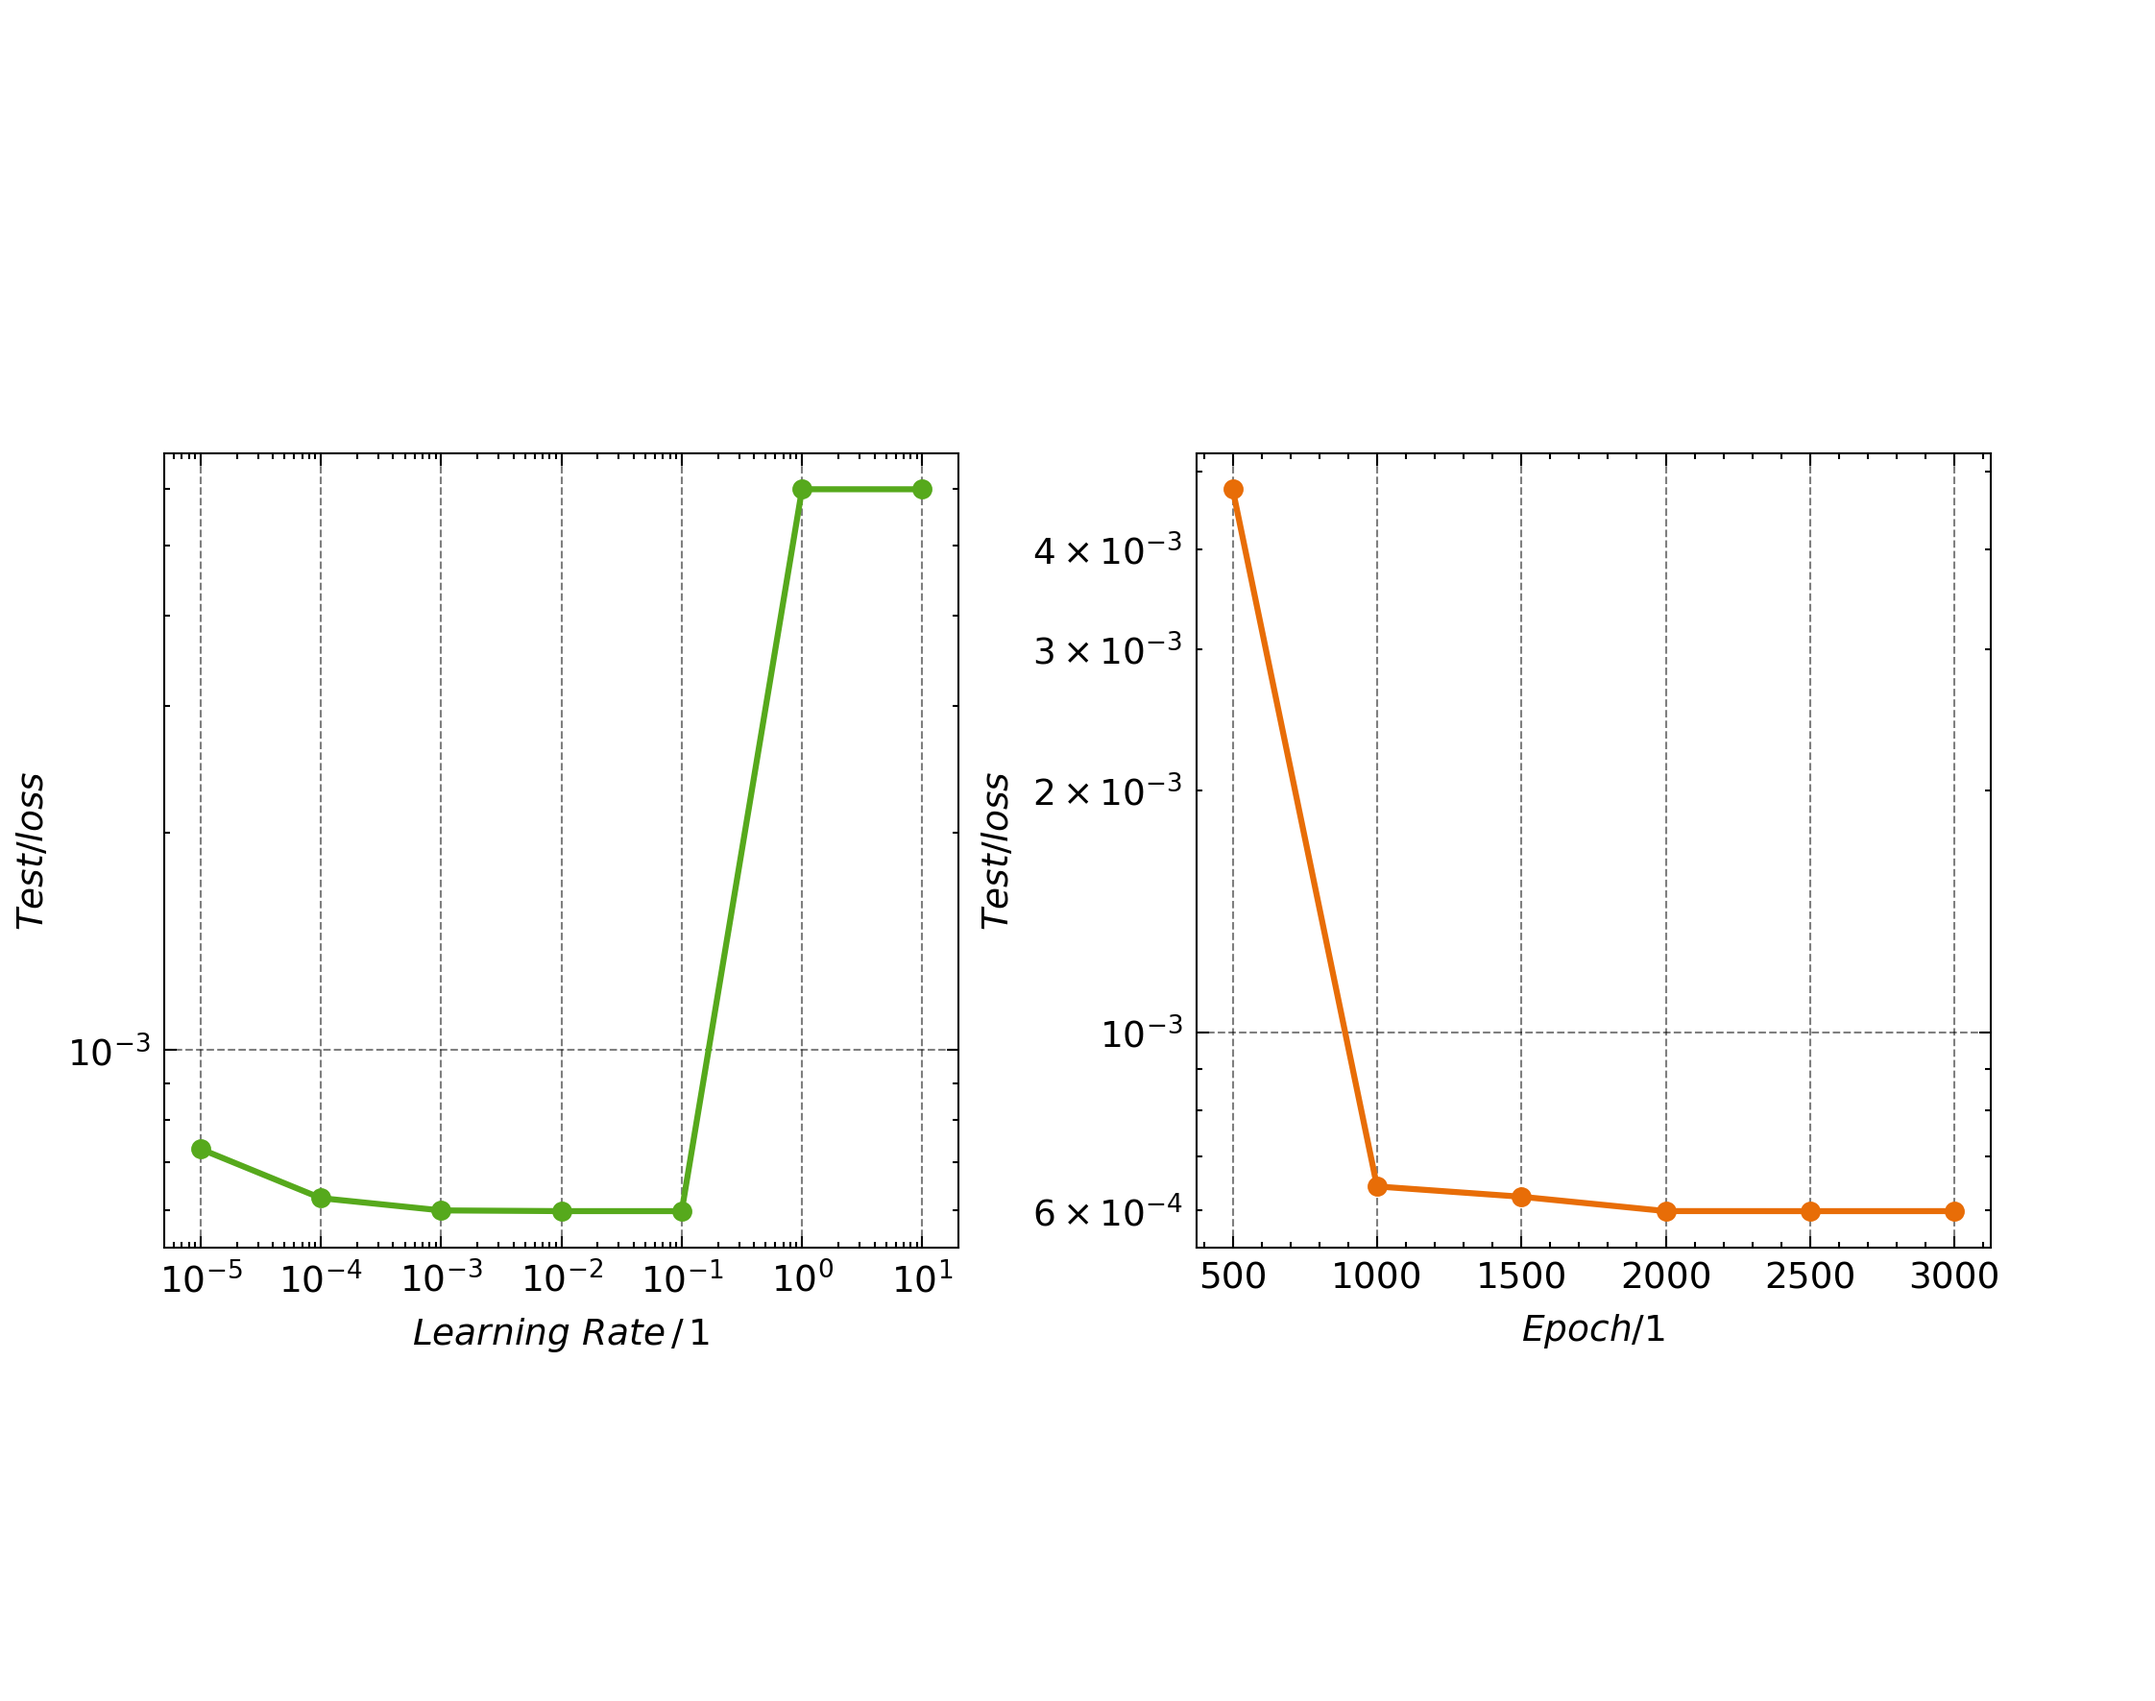
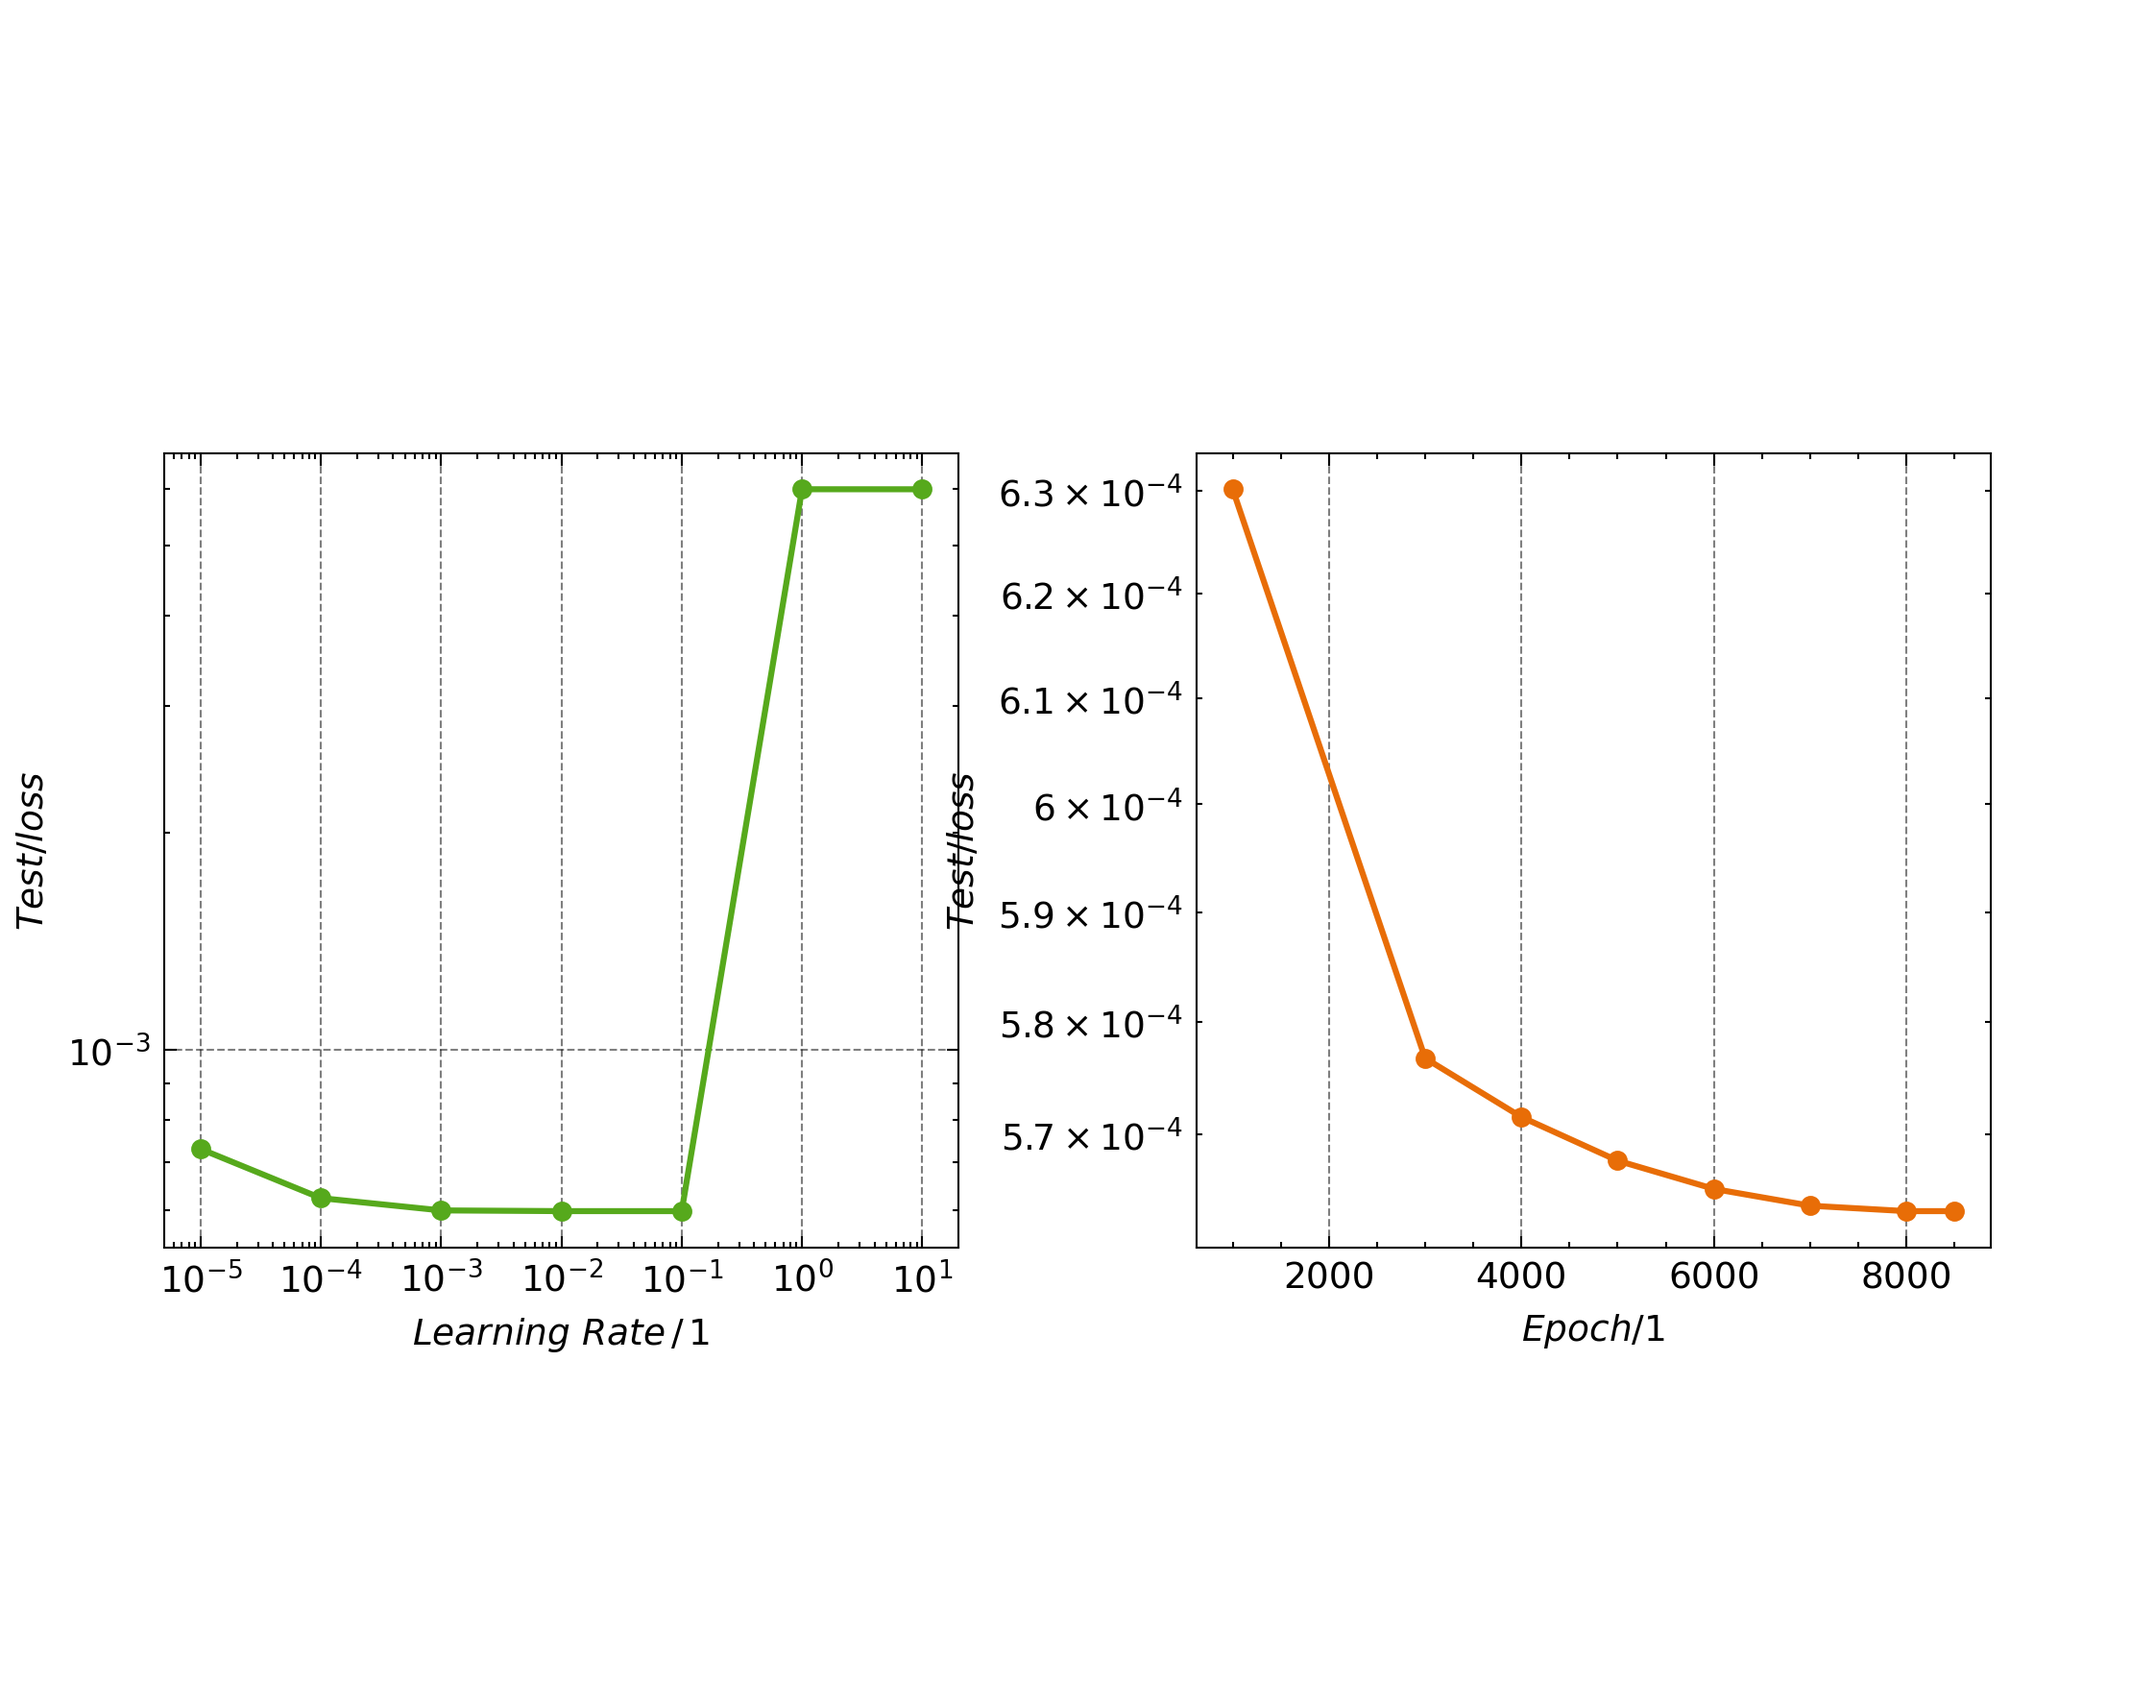
plotting

diff --git a/Plots/Plotting.py b/Plots/Plotting.py
@@ -1,0 +1,183 @@
+import pandas as pd
+import matplotlib.pyplot as plt
+import numpy as np
+import csv
+import pandas as pd
+from ICIW_Plots import make_square_ax, cm2inch
+import torch
+import numpy as np
+import ICIW_Plots.colors as ICIWcolors
+from ICIW_Plots import make_rect_ax
+from ICIW_Plots import make_square_subplots
+import matplotlib.pyplot as plt
+import torch
+import matplotlib.pyplot as plt
+import numpy as np
+import ICIW_Plots.colors as ICIWcolors
+from ICIW_Plots.figures import Elsevier_Sizes
+import datetime
+from sympy import ceiling
+from ICIW_Plots import make_square_ax, cm2inch
+import os
+#save_dir="/Users/tuanaoyuncu/Documents/GitHub/nRTD/Plots"
+save_dir = r"D:\Tuana\nRTD\Plots"
+
+
+##############################
+#LR
+LR=[10,1,1e-1,1e-2,1e-3,1e-4,1e-5]
+error_2=[7.4647e-8,7.46e-8,7.4541e-8,7.4523e-8,7.4537e-8,1.1904e-7,0.00067261]#7.5e-8
+fig = plt.figure( figsize=(Elsevier_Sizes.double_column["in"], 25 * cm2inch))  # Increased figure height for better spacing
+ax = make_rect_ax(
+    fig,
+    ax_width=16 * cm2inch,#dimension of the plots
+    ax_height=3,
+    xlabel="$Learning \, Rate/1$", 
+    ylabel=
+        "$Test/loss$"
+    
+)
+ax.plot(LR, error_2,'o-',
+    color=ICIWcolors.FLAME
+)
+
+
+ax.set_yscale('log')
+ax.set_xscale('log')
+ax.text(0.01, 1.075, 'Y-axis and X-axis : Logarithmic Scale', transform=ax.transAxes,verticalalignment='top')
+# axs[0, 1].plot(selected_values, train_loss_values_63,color=ICIWcolors.KELLYGREEN)
+
+#plt.savefig(os.path.join(save_dir, f"LR.png"), dpi=300)
+plt.show()
+##############################2ndlayer
+
+LR_2=[10,1,1e-1,1e-2,1e-3,1e-4,1e-5]
+#error_LR_2=[7.6e-9,7.7e-9,7.8e-9,7.5e-9,7.6e-9,7.7e-9,7.53e-9]
+error_LR_2=[7.6,7.7,7.8,7.5,7.6,7.7,7.53]
+epoch_2=[10000,50000,100000,200000,300000,400000,430000]
+error_epoch_2=[8.2e-7,9.8e-8,9.45e-9,7.7e-9,7.5e-9,7.54e-9,7.54e-9]
+plt.style.use("ICIWstyle")
+fig = plt.figure( figsize=(Elsevier_Sizes.double_column["in"], 15 * cm2inch))  # Increased figure height for better spacing
+axs = make_square_subplots(
+    fig=fig,
+    ax_width=7 * cm2inch,#dimension of the plots
+    ax_layout=(1, 2),  
+    h_sep=1.8 * cm2inch,  
+    v_sep=1 * cm2inch, 
+    sharex=False,
+    sharey=False,
+    xlabel=["$Learning\,Rate/1$","$Epoch/1$"], 
+    ylabel=
+        [["$Test/loss$","$Train/loss$"]]
+    
+)
+axs[0, 0].text(0.15, 1.05, r'Scale : $\times10^{9}$', 
+               transform=axs[0, 0].transAxes,
+               horizontalalignment='center',
+               verticalalignment='bottom')
+
+axs[0, 1].plot(
+    epoch_2,
+    error_epoch_2,'o-',
+    color=ICIWcolors.FLAME,
+)
+
+axs[0, 1].set_yscale('log')
+# axs[0, 1].set_xscale('log')
+axs[0, 0].plot(LR_2, error_LR_2,'o-',color=ICIWcolors.KELLYGREEN)
+#axs[0, 1].set_yscale('log')
+axs[0, 0].set_xscale('log')
+#axs[0, 0].set_yscale('log')
+axs[0, 0].set_xticks(LR)
+#axs[0, 0].set_xticklabels([r'$10^{%d}$' % int(np.log10(x)) if x != 1 else '1' for x in LR])
+#axs[0, 0].set_xlim(min(LR) * 0.5, max(LR) * 2)
+plt.savefig(os.path.join(save_dir, f"2nd_hypo.png"), dpi=300)
+plt.show()
+
+
+#####EXP
+LR_2=[10,1,1e-1,1e-2,1e-3,1e-4,1e-5]
+#error_LR_2=[7.6e-9,7.7e-9,7.8e-9,7.5e-9,7.6e-9,7.7e-9,7.53e-9]
+error_LR_2 = [0.0059862, 0.0059867, 0.0005986, 0.00059863, 0.0006000, 0.000624, 0.00073]
+epoch_2=[500,1000,1500,2000,2500,3000]
+error_epoch_2=[0.0047523,0.00064254,0.00062384,0.00059867,0.00059859,0.00059862]
+plt.style.use("ICIWstyle")
+fig = plt.figure( figsize=(Elsevier_Sizes.double_column["in"], 15 * cm2inch))  # Increased figure height for better spacing
+axs = make_square_subplots(
+    fig=fig,
+    ax_width=7 * cm2inch,#dimension of the plots
+    ax_layout=(1, 2),  
+    h_sep=2.1 * cm2inch,  
+    v_sep=1 * cm2inch, 
+    sharex=False,
+    sharey=False,
+    xlabel=["$Learning\, \, Rate \, / \, 1$","$Epoch/1$"], 
+    ylabel=
+        [["$Test/loss$","$Test/loss$"]]
+    
+)
+#axs[0, 0].text(0.15, 1.05, r'Scale : $\times10^{9}$', 
+               #transform=axs[0, 0].transAxes,
+               #horizontalalignment='center',
+               #verticalalignment='bottom')
+
+axs[0, 1].plot(
+    epoch_2,
+    error_epoch_2,'o-',
+    color=ICIWcolors.FLAME,
+)
+
+axs[0, 1].set_yscale('log')
+#axs[0, 1].set_xscale('log')
+axs[0, 0].plot(LR_2, error_LR_2,'o-',color=ICIWcolors.KELLYGREEN)
+#axs[0, 1].set_yscale('log')
+axs[0, 0].set_xscale('log')
+axs[0, 0].set_yscale('log')
+axs[0, 0].set_xticks(LR)
+#axs[0, 0].set_xticklabels([r'$10^{%d}$' % int(np.log10(x)) if x != 1 else '1' for x in LR])
+#axs[0, 0].set_xlim(min(LR) * 0.5, max(LR) * 2)
+plt.savefig(os.path.join(save_dir, f"2nd_hypo_exp.png"), dpi=300)
+plt.show()
+
+LR_2=[10,1,1e-1,1e-2,1e-3,1e-4,1e-5]
+#error_LR_2=[7.6e-9,7.7e-9,7.8e-9,7.5e-9,7.6e-9,7.7e-9,7.53e-9]
+error_LR_2 = [0.0059862, 0.0059867, 0.0005986, 0.00059863, 0.0006000, 0.000624, 0.00073]
+epoch_3=[1000,3000,4000,5000,6000,7000,8000,8500]
+error_epoch_3=[0.00063015,0.00057675,0.0005715,0.00056763,0.00056514,0.000563666,0.00056319,0.00056319]
+plt.style.use("ICIWstyle")
+fig = plt.figure( figsize=(Elsevier_Sizes.double_column["in"], 15 * cm2inch))  # Increased figure height for better spacing
+axs = make_square_subplots(
+    fig=fig,
+    ax_width=7 * cm2inch,#dimension of the plots
+    ax_layout=(1, 2),  
+    h_sep=2.1 * cm2inch,  
+    v_sep=1 * cm2inch, 
+    sharex=False,
+    sharey=False,
+    xlabel=["$Learning\, \, Rate \, / \, 1$","$Epoch/1$"], 
+    ylabel=
+        [["$Test/loss$","$Test/loss$"]]
+    
+)
+#axs[0, 0].text(0.15, 1.05, r'Scale : $\times10^{9}$', 
+               #transform=axs[0, 0].transAxes,
+               #horizontalalignment='center',
+               #verticalalignment='bottom')
+
+axs[0, 1].plot(
+    epoch_3,
+    error_epoch_3,'o-',
+    color=ICIWcolors.FLAME,
+)
+
+axs[0, 1].set_yscale('log')
+#axs[0, 1].set_xscale('log')
+axs[0, 0].plot(LR_2, error_LR_2,'o-',color=ICIWcolors.KELLYGREEN)
+#axs[0, 1].set_yscale('log')
+axs[0, 0].set_xscale('log')
+axs[0, 0].set_yscale('log')
+axs[0, 0].set_xticks(LR)
+#axs[0, 0].set_xticklabels([r'$10^{%d}$' % int(np.log10(x)) if x != 1 else '1' for x in LR])
+#axs[0, 0].set_xlim(min(LR) * 0.5, max(LR) * 2)
+plt.savefig(os.path.join(save_dir, f"2nd_hypo_exp.png"), dpi=300)
+plt.show()

diff --git a/Experiments/Preliminary/2_nd_Layer_exp/0001/H_085/Convolution_script_exp_085.py b/Experiments/Preliminary/2_nd_Layer_exp/0001/H_085/Convolution_script_exp_085.py
@@ -32,7 +32,7 @@ from ICIW_Plots import make_rect_ax
 if wandb.run is not None:
     wandb.finish()
 
-learning_rate_2=10   
+learning_rate_2=1e-1
 #save_dir=r"D:\Tuana\nRTD\Experiments\Preliminary\2_nd_Layer_exp\0001\H_085"
 
 learning_rate=1e-3
@@ -73,10 +73,10 @@ sub_dict = {
     n_out_1: 200,
     # n_e_1,
     # n_e_2,
-    t_1:14,
+    t_1:10,
     # t_lam,
     t_adl:51,
-    t_e_1:13,
+    t_e_1:11,
     #t_e_2,
 }
 result_dict = {}
@@ -200,7 +200,7 @@ wandb_logger = pl_loggers.WandbLogger(
 
 trainer = pl.Trainer(
     accelerator="auto",
-    max_epochs=2500,
+    max_epochs=8000,
     logger=wandb_logger, deterministic=True
 )
 trainer.fit(model, dl)
@@ -253,8 +253,8 @@ print(E.shape)
 for i, file_num in enumerate(filtered_file_numbers):
     # t_conv_path_2 = f"/Users/tuanaoyuncu/Documents/GitHub/nRTD/Data/0001/C_002/H_085_C2/S_012_C2/TOA_MGA_20231020_012_{file_num:06d}_t_processed_conc.npy"
     # c_out_path_2 = f"/Users/tuanaoyuncu/Documents/GitHub/nRTD/Data/0001/C_002/H_085_C2/S_012_C2/TOA_MGA_20231020_012_{file_num:06d}_x_processed_conc.npy"
-    t_conv_path_2= rf"D:\Tuana\nRTD\Data\0001\C_002\H_085_C2\S_012_C2\TOA_MGA_20231020_012_{file_num:06d}_t_processed_conc_377.npy"
-    c_out_path_2 =rf"D:\Tuana\nRTD\Data\0001\C_002\H_085_C2\S_012_C2\TOA_MGA_20231020_012_{file_num:06d}_x_processed_conc_377.npy"
+    t_conv_path_2= rf"D:\Tuana\nRTD\Data\0001\C_002\H_085_C2\S_012_C2\TOA_MGA_20231020_012_{file_num:06d}_t_processed_conc.npy"
+    c_out_path_2 =rf"D:\Tuana\nRTD\Data\0001\C_002\H_085_C2\S_012_C2\TOA_MGA_20231020_012_{file_num:06d}_x_processed_conc.npy"
 
     print(f"Processing files: {t_conv_path_2}, {c_out_path_2}")
 
@@ -289,7 +289,7 @@ dl_2 = DataLoader(ds_2, batch_size=1, shuffle=True)
 
 trainer = pl.Trainer(
     accelerator="auto",
-    max_epochs=2500,
+    max_epochs=15000,
     logger=wandb_logger,
     deterministic=True,
 )
@@ -369,7 +369,7 @@ E_learned_1 = model.net.E[0] if isinstance(model.net.E[0], np.ndarray) else mode
 E_learned_2 = model_2.net.E[0] if isinstance(model_2.net.E[0], np.ndarray) else model_2.net.E[0].numpy()
 t_learned_1 = np.linspace(0, t_e, len(E_learned_1))
 t_learned_2 = np.linspace(0, t_e_2, len(E_learned_2))
-j=2
+j=0
 base_dir = r'D:\Tuana\nRTD\Experiments\Preliminary\2_nd_Layer_exp'
 #base_dir="/Users/tuanaoyuncu/Documents/GitHub/nRTD/Experiments/Preliminary/2_nd_Layer_exp"
 plt.style.use("ICIWstyle")

diff --git a/Plots/General_plotting_windows.py b/Plots/General_plotting_windows.py
@@ -300,5 +300,62 @@ axs[0, 0].legend(loc="best")
 axs[0, 1].legend(loc="best")
 axs[1,0].legend(loc="best")
 axs[1, 1].legend(loc="best")
-plt.savefig(os.path.join(save_dir, f"lit_models_2.png"), dpi=300)
+#plt.savefig(os.path.join(save_dir, f"lit_models_2.png"), dpi=300)
+plt.show()
+
+
+t10 = np.load(r"D:\Tuana\nRTD\Data\0001\C_001\H_085_C1\S_009_C1_001\TOA_MGA_20231020_009_000001_t_processed.npy")
+x10 = np.load(r"D:\Tuana\nRTD\Data\0001\C_001\H_085_C1\S_009_C1_001\TOA_MGA_20231020_009_000001_x_processed.npy")
+x10 /= 224
+x10_p = x10 / x10.max()
+
+t11 = np.load(r"D:\Tuana\nRTD\Data\0001\C_002\H_085_C2\S_012_C2_001\TOA_MGA_20231020_012_000001_t_processed.npy")
+x11 = np.load(r"D:\Tuana\nRTD\Data\0001\C_002\H_085_C2\S_012_C2_001\TOA_MGA_20231020_012_000001_x_processed.npy")
+x11 /= 224
+x11_p = x11 / x11.max()
+
+t4 = np.load(r"D:\Tuana\nRTD\Data\0001\C_002\H_085_C2\S_012_C2_001\TOA_MGA_20231020_012_000001_t_processed.npy")
+t5 = np.load(r"D:\Tuana\nRTD\Data\0001\C_002\H_135_C2\S_013_C2_001\TOA_MGA_20231020_013_000001_t_processed.npy")
+
+plt.style.use("ICIWstyle")
+
+fig = plt.figure( figsize=(Elsevier_Sizes.double_column["in"], 25 * cm2inch))  # Increased figure height for better spacing
+axs = make_square_subplots(
+    fig=fig,
+    ax_width=8 * cm2inch,#dimension of the plots
+    ax_layout=(1, 1),  
+    h_sep=1.3 * cm2inch,  
+    v_sep=1 * cm2inch, 
+    sharex=True,
+    sharey=False,
+    xlabel= "$t/s$",
+    ylabel=[
+        "$C/1$"
+    ]
+)
+#     sharex=True,
+#     sharey=True,
+#     xlabel=["$x_1$", "$x_2$"], 
+#     ylabel=[["$y_1$"],["$y_1$"],["$y_1$"]]
+         
+    
+# )
+
+axs[0, 0].plot(
+    t4, x10_p,
+    label=r"$(1)$",
+    color=ICIWcolors.KELLYGREEN,
+)
+axs[0, 0].plot(
+    t4, x11_p,
+    label=r"$(2)$",
+    color=ICIWcolors.FLAME,
+)
+# axs[0, 0].set_xscale('$Epoch$')
+# axs[0, 0].set_yscale('$test/loss$')
+# axs[0, 0].set_xticks(LR)
+# axs[0, 0].set_xticklabels([r'$10^{%d}$' % int(np.log10(x)) if x != 1 else '1' for x in LR])
+axs[0, 0].set_xlim(0,20)
+plt.legend()
+plt.savefig(os.path.join(save_dir, f"experimental.png"), dpi=300)
 plt.show()

diff --git a/Plots/2nd_Layer_dynamic_profiles.py b/Plots/2nd_Layer_dynamic_profiles.py
@@ -54,13 +54,14 @@ ax = make_rect_ax(
         "$Train/loss$"
     
 )
-ax.plot(df["epoch"], df["Layer_2_CH_n_1_out_200_LC_learning_rate_0.01_2nd_epoch_900000 - train/loss"],
-    label=r"$Case:1$",
-    color=ICIWcolors.FLAME,
-)
 ax.plot(df["epoch"], df["Layer_2_CH_n_1_out_200_LC_learning_rate_0.01_2nd_epoch_900000_RTD2 - train/loss"],
-    label=r"$Case:2$",
+    label=r"$Case:1$",
     color=ICIWcolors.KELLYGREEN,
+)
+
+ax.plot(df["epoch"], df["Layer_2_CH_n_1_out_200_LC_learning_rate_0.01_2nd_epoch_900000 - train/loss"],
+    label=r"$Case:2$",
+    color=ICIWcolors.FLAME,
 )
 
 plt.legend()
